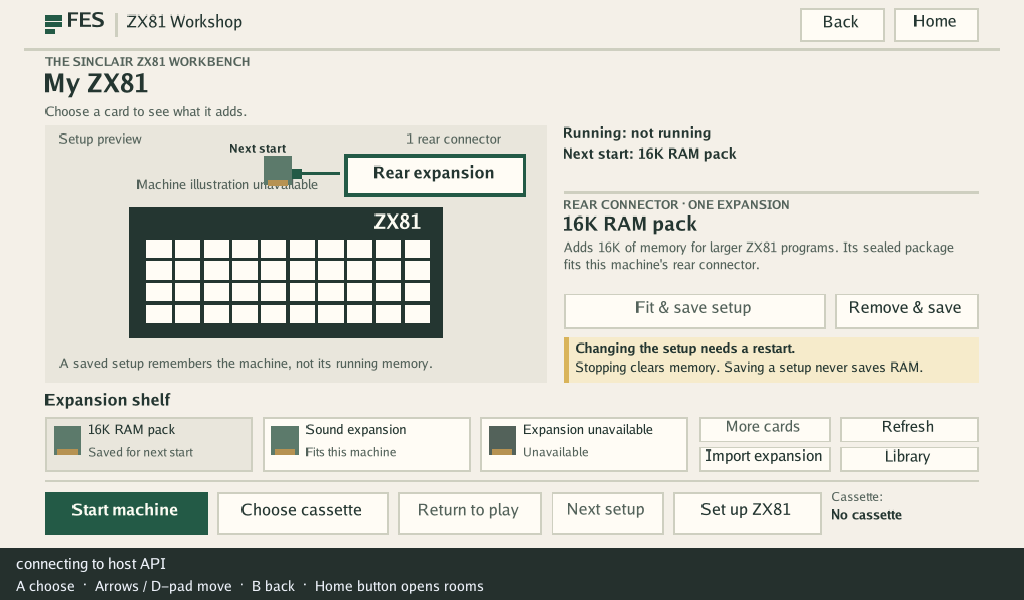
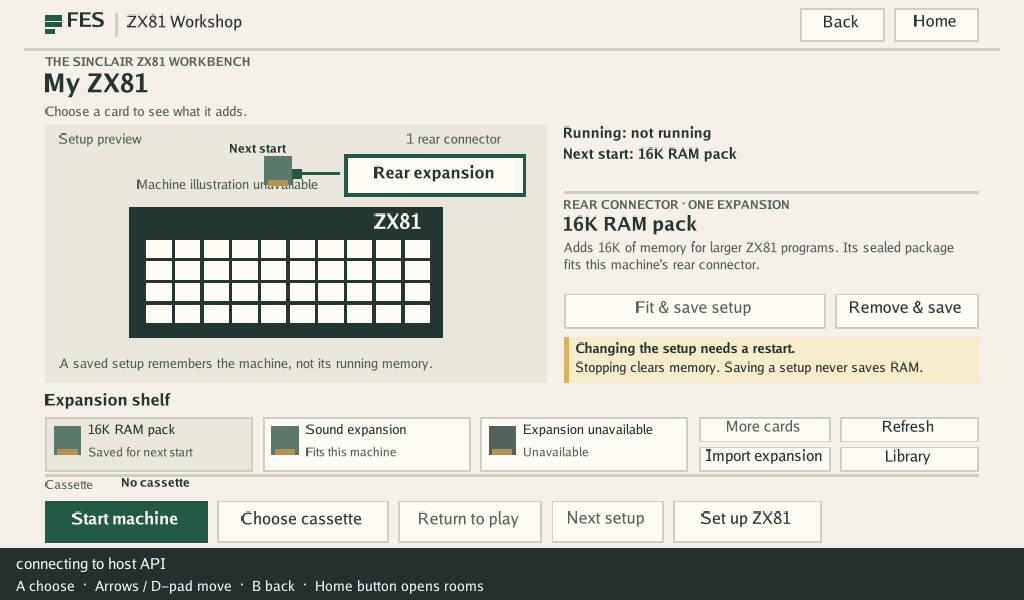
FogCast: Refresh ZX81 Workshop host renders after the review fixes (#797)
The after captures show the solid next-start card beside an outlined
preview, and the cassette name on its own row above the machine controls.

Changed region(s): [[0.0312, 0.78, 0.9688, 0.93]]

diff --git a/docs/hardware-rooms.md b/docs/hardware-rooms.md
@@ -13,11 +13,10 @@ library is empty. The Amiga-themed `example.workbench` remains a separate room.
 
 The room follows the Retro Workshop direction in [the UX brief](ux/README.md).
 The setup column shows **Running**, **Next start** and, while an unsaved card is
-inspected, **Previewing … (not saved)** together. The machine illustration
-draws the saved card solid and keeps it there while a ready inspected card is
-outlined beside it with a **Preview** label. An unavailable choice stays in
-the text column and is not drawn on the connector. Without a session reading, **Running** says unknown rather than not
-running. The restart and memory consequences sit beside **Fit & save setup**.
+inspected, **Previewing … (not saved)** together. The machine illustration draws the saved card solid and keeps it there while a
+ready inspected card is outlined beside it with a **Preview** label. An
+unavailable choice stays in the text column and is not drawn on the connector.
+Without a session reading, **Running** says unknown rather than not running. The restart and memory consequences sit beside **Fit & save setup**.
 
 Choose a card on the shelf to inspect its description, then **Fit & save
 setup**. **Remove & save** clears the connector. Both actions save the
@@ -33,7 +32,8 @@ cards is outside this change. The selected family supplies household presentatio
 text, while the immutable archive and host admission decide compatibility.
 
 **Choose cassette** saves a `.p` import, an embedded starter tape, or no tape for
-the next launch. Selection compares both the package and previous media ID;
+the next launch. The selected filename is shown on its own row above the machine
+controls. A name that does not fit keeps its start and its end. Selection compares both the package and previous media ID;
 another client's change requires a refresh. Opening the shelf imports nothing.
 The three attributed starter tapes are Guess the Number (MIT, 1 KiB), Aritm
 (GPL-3.0-or-later, 16 KiB recommended), and Character Display (MIT, 16 KiB

diff --git a/docs/validation/2026-10-17-ux-zx81-workshop/README.md b/docs/validation/2026-10-17-ux-zx81-workshop/README.md
@@ -22,7 +22,7 @@ FES_ROOM_SCREENSHOT_DIR=/tmp/ws go test ./ui/tenfoot/ -run TestHardwareRoomNativ
 | --- | --- | --- |
 | Idle | [before](before-idle-1280x720.png) | [after](after-idle-1280x720.png): Running and Next start together, consequence box beside Fit & save |
 | Running, restart needed | [before](before-running-1280x720.png): states in a footer line | [after](after-running-1280x720.png): "Running: Empty socket", "Next start: 16K RAM pack", "Restart needed: Stop, then Start" |
-| Previewing an unsaved card | not shown before | [after 1280×720](after-preview-1280x720.png), [1024×600](after-preview-1024x600.png): outlined "Preview" card, "Previewing: Sound expansion (not saved)" |
+| Previewing an unsaved card | not shown before | [after 1280×720](after-preview-1280x720.png), [1024×600](after-preview-1024x600.png): solid "Next start" card stays, outlined "Preview" card beside it, "Previewing: Sound expansion (not saved)" |
 | Missing artwork | [before](before-no-artwork-1280x720.png) | [after](after-no-artwork-1280x720.png): labelled machine silhouette |
 
 Both sizes are captured for every scene.
@@ -44,6 +44,11 @@ Both sizes are captured for every scene.
   - an unavailable card drawn as a preview
 
   All are fixed.
+- Devin Review: the saved card stays visible during preview, and the cassette
+  name is a wide row that keeps the end of a long filename. The after images
+  were regenerated with `TestHardwareRoomNativeRender`. Preview still occupies
+  the status line Restart needed would use; the warm box keeps that warning.
+  An unavailable choice stays text and is not drawn on the connector.
 
 ## Not covered
 

diff --git a/docs/ux/README.md b/docs/ux/README.md
@@ -432,8 +432,10 @@ kit are pending.
   setup change needs a restart, that stopping clears memory, and that saving
   never saves RAM.
 - **Grouped actions.** The machine row holds Start/Stop, cassette/tape, Return
-  to play and Next setup; setup tools hold Set up ZX81, Import expansion,
-  Refresh, More cards and Library. Control IDs and guards are unchanged.
+  to play, Next setup and Set up ZX81. The selected cassette name is a wide
+  row above those controls; a name that does not fit keeps its start and its
+  end. Setup tools hold Import expansion, Refresh, More cards and Library.
+  Control IDs and guards are unchanged.
 - **Not yet.** "Games for this machine" needs its own focus and launch design.
 
 ## Decisions still to validate
